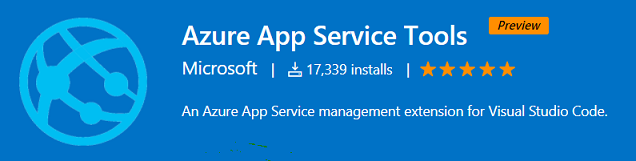
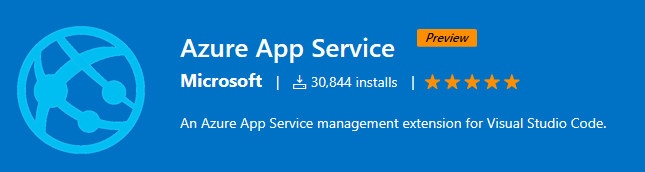
Update "App Service Tools" usage.
Removed the occurrences of "tools" as it's redundant and will be removed from
the official extension name.

diff --git a/docs/nodejs/nodejs-deployment.md b/docs/nodejs/nodejs-deployment.md
@@ -9,9 +9,9 @@ DateApproved: 1/5/2018
 ---
 # Deploy a Node.js Application to Azure
 
-You can deploy your Node.js applications to [Azure](https://azure.microsoft.com) directly from Visual Studio Code. Using either the [Azure CLI](https://docs.microsoft.com/en-us/cli/azure/overview?view=azure-cli-latest) or the [Azure App Service Tools](https://marketplace.visualstudio.com/items?itemName=ms-azuretools.vscode-azureappservice) extension, you can have your application running in Azure in minutes.
+You can deploy your Node.js applications to [Azure](https://azure.microsoft.com) directly from Visual Studio Code. Using either the [Azure CLI](https://docs.microsoft.com/en-us/cli/azure/overview?view=azure-cli-latest) or the [Azure App Service](https://marketplace.visualstudio.com/items?itemName=ms-azuretools.vscode-azureappservice) extension, you can have your application running in Azure in minutes.
 
-![app service tools](images/nodejs-deployment/azure-app-service-tools.png)
+![app service](images/nodejs-deployment/azure-app-service-tools.png)
 
 ## Azure tutorials
 
@@ -19,8 +19,7 @@ The tutorials below will walk you through creating a simple website and deployin
 
 Tutorial | Description
 --- | ---
-[Deploy using the App Service Tools extension](/tutorials/app-service-extension/getting-started) | Manage Azure resources directly in VS Code with the Azure App Service Tools extension.
-[Deploy using Docker](/tutorials/docker-extension/getting-started) | Deploy your website using a Docker container.
+[Deploy using the App Service extension](/tutorials/app-service-extension/getting-started) | Manage Azure resources directly in VS Code with the Azure App Service extension.
 [Deploy using the Azure CLI](/tutorials/nodejs-deployment/getting-started) | Create, deploy, and update a website using a terminal and the Azure CLI.
 
 ## Azure extensions

diff --git a/tutorials/app-service-extension/getting-started.md b/tutorials/app-service-extension/getting-started.md
@@ -6,9 +6,9 @@ PageTitle: Node.js Deployment with Visual Studio Code
 MetaDescription: Node.js Deployment to Azure App Services with Visual Studio Code
 DateApproved: 12/18/2017
 ---
-# Deploy to Azure using App Service Tools
+# Deploy to Azure using App Service
 
-This tutorial walks you through deploying a Node.js application to Azure using the [Azure App Service Tools](https://marketplace.visualstudio.com/items?itemName=ms-azuretools.vscode-azureappservice) extension. You'll be able to deploy to Azure on Linux in a matter of minutes from Visual Studio Code.
+This tutorial walks you through deploying a Node.js application to Azure using the [Azure App Service](https://marketplace.visualstudio.com/items?itemName=ms-azuretools.vscode-azureappservice) extension. You'll be able to deploy to Azure on Linux in a matter of minutes from Visual Studio Code.
 
 ## Prerequisites
 
@@ -18,9 +18,9 @@ You need [Visual Studio Code](https://code.visualstudio.com/) installed along wi
 
 ## Install the extension
 
-The Azure App Service Tools extension is used to create, manage, and deploy Linux Web Apps on the Azure PaaS.
+The Azure App Service extension is used to create, manage, and deploy Linux Web Apps on the Azure PaaS.
 
-> <a class="tutorial-install-extension-btn" href="vscode:extension/ms-azuretools.vscode-azureappservice">Install the Azure App Service Tools extension</a>
+> <a class="tutorial-install-extension-btn" href="vscode:extension/ms-azuretools.vscode-azureappservice">Install the Azure App Service extension</a>
 
 ## Sign in
 

diff --git a/tutorials/app-service-extension/deploy-app.md b/tutorials/app-service-extension/deploy-app.md
@@ -8,9 +8,9 @@ DateApproved: 12/18/2017
 ---
 # Deploy the Website
 
-In this step, you deploy your Node.js website using VS Code and the Azure App Service Tools extension. This tutorial uses the most basic deployment model where your app is zipped and deployed to an Azure Web App on Linux.
+In this step, you deploy your Node.js website using VS Code and the Azure App Service extension. This tutorial uses the most basic deployment model where your app is zipped and deployed to an Azure Web App on Linux.
 
-## Deploy using Azure App Service Tools
+## Deploy using Azure App Service
 
 In the **AZURE APP SERVICE** explorer, click the blue up arrow icon to deploy your app to Azure.
 
